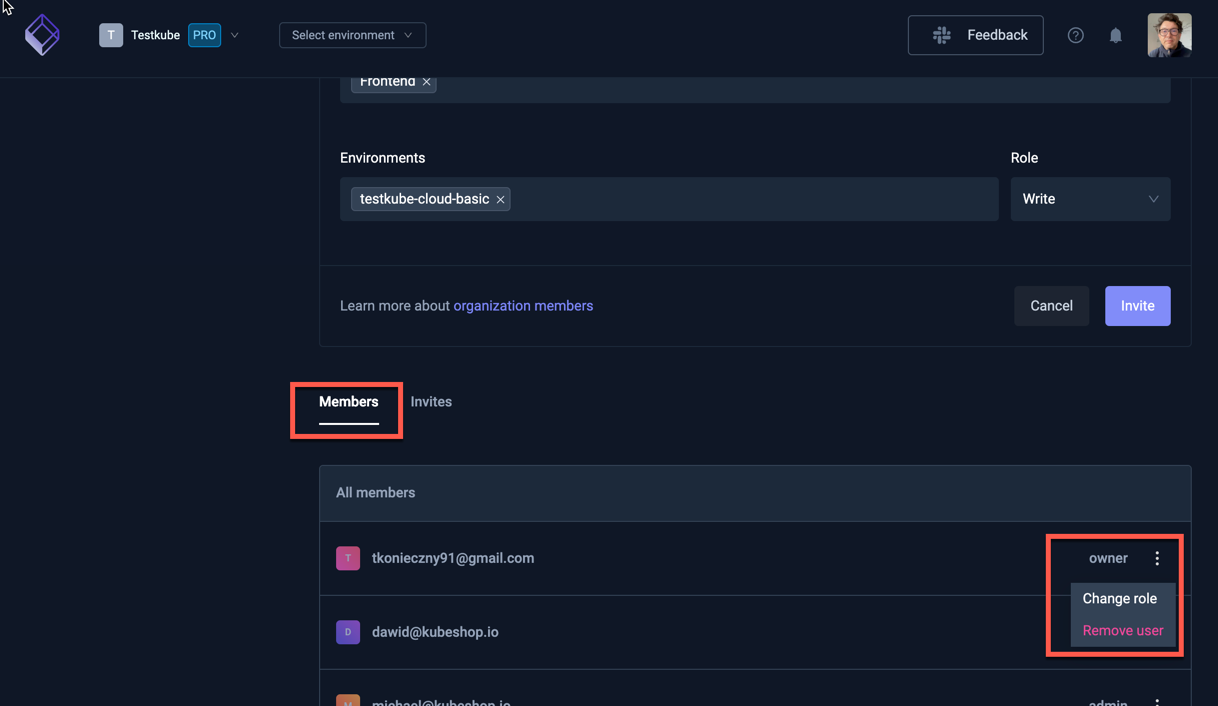
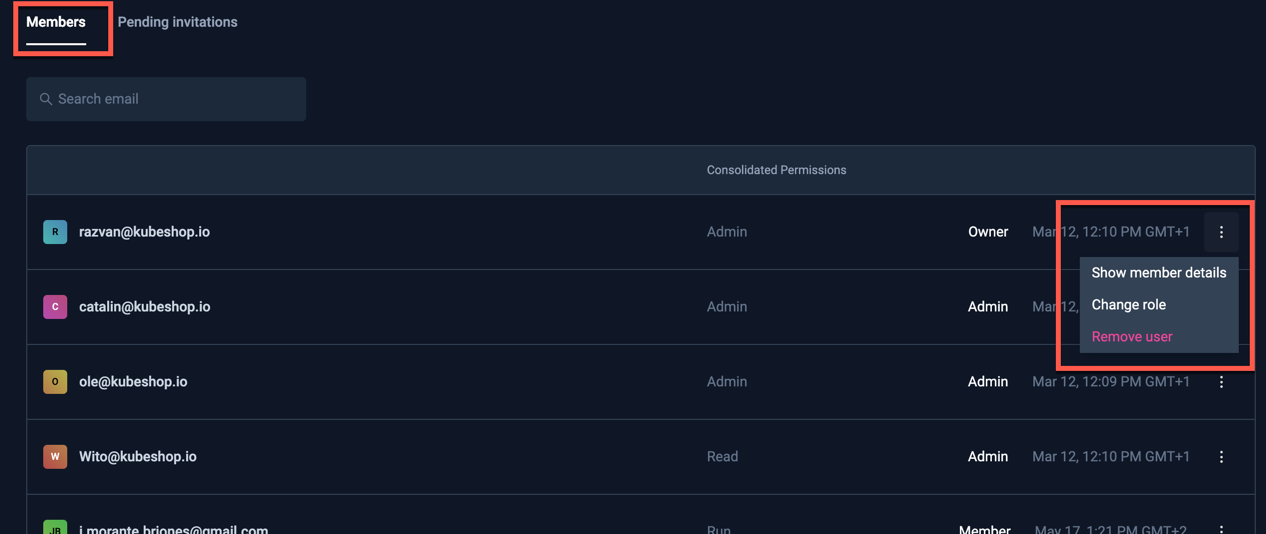
added initial members-management

diff --git a/sidebars.js b/sidebars.js
@@ -510,6 +510,11 @@ const sidebars = {
             },
             {
               type: "doc",
+              label: "Members",
+              id: "testkube-pro/articles/member-management",
+            },
+            {
+              type: "doc",
               label: "Teams",
               id: "articles/teams",
             },

diff --git a/docs/articles/install/feature-comparison.md b/docs/articles/install/feature-comparison.md
@@ -4,25 +4,26 @@ The below table shows a feature comparison between deploying the Testkube Agent 
 
 The Control Plane column applies to both On-Prem and Cloud deployments of the Control Plane.
 
-| Features                             |       Testkube Agent <br/> in standalone mode        | Testkube Agent(s) <br/>connected to Control Plane |                       Read More                        |
-|:-------------------------------------|:----------------------------------------------------:|:-------------------------------------------------:|:------------------------------------------------------:|
-| **TestWorkflows**                    | :white_check_mark: - :warning: see limitations above |                :white_check_mark:                 |            [Docs](/articles/test-workflows)            |
-| **Test Logs/Artifacts**              |   :white_check_mark: -  :warning: via CLI/API only   |                :white_check_mark:                 |          [Docs](/articles/logs-and-artifacts)          |
-| **Webhooks**                         |                  :white_check_mark:                  |                :white_check_mark:                 |               [Docs](/articles/webhooks)               |
-| **Test Triggers**                    |                  :white_check_mark:                  |                :white_check_mark:                 |         [Docs](/articles/triggering-overview)          |
-| **Test, Suites, Sources, Executors** |                  :white_check_mark:                  |                :white_check_mark:                 |  Deprecated - [Read More](/articles/legacy-features)   |
-| **Testkube CLI**                     |                  :white_check_mark:                  |                :white_check_mark:                 |                 [Docs](/articles/cli)                  |
-| **REST API**                         |    :white_check_mark: -:warning: Unauthenticated     |                :white_check_mark:                 |               [Docs](/openapi/overview)                |
-| **Dashboard**                        |                         :x:                          |                :white_check_mark:                 |      [Docs](/articles/testkube-dashboard-explore)      |
-| **Multi-environment Mgmt**           |                         :x:                          |                :white_check_mark:                 | [Docs](/testkube-pro/articles/environment-management)  |
-| **RBAC / SSO / User Mgmt**           |                         :x:                          |                :white_check_mark:                 | [Docs](/testkube-pro/articles/organization-management) |
-| **Reporting / Insights**             |                         :x:                          |                :white_check_mark:                 |            [Docs](/articles/test-insights)             |
-| **Status Pages**                     |                         :x:                          |                :white_check_mark:                 |      [Docs](/testkube-pro/articles/status-pages)       |
-| **Advanced Log/Results Debugging**   |                         :x:                          |                :white_check_mark:                 |    [Docs](/testkube-pro/articles/log-highlighting)     |
-| **Cached Test Results**              |                         :x:                          |                :white_check_mark:                 |     [Docs](/testkube-pro/articles/cached-results)      |
-| **Teams**                            |                         :x:                          |                :white_check_mark:                 |                [Docs](/articles/teams)                 |
-| **Resource Groups**                  |                         :x:                          |                :white_check_mark:                 |           [Docs](/articles/resource-groups)            |
-| **JUnit Reports**                    |                         :x:                          |                :white_check_mark:                 |        [Docs](/articles/test-workflows-reports)        |
-| **Audit Logs**                       |                         :x:                          |                :white_check_mark:                 |       [Docs](/testkube-pro/articles/audit-logs)        |
-| **Testkube Copilot**                 |                         :x:                          |                :white_check_mark:                 |                                                        |
-| **Test Discovery**                   |                         :x:                          |                :white_check_mark:                 |                                                        |
+| Features                             |       Testkube Agent <br/> in standalone mode        | Testkube Agent(s) <br/>connected to Control Plane |                                Read More                                |
+|:-------------------------------------|:----------------------------------------------------:|:-------------------------------------------------:|:-----------------------------------------------------------------------:|
+| **TestWorkflows**                    | :white_check_mark: - :warning: see limitations above |                :white_check_mark:                 |                    [Docs](/articles/test-workflows)                     |
+| **Test Logs/Artifacts**              |   :white_check_mark: -  :warning: via CLI/API only   |                :white_check_mark:                 |                  [Docs](/articles/logs-and-artifacts)                   |
+| **Webhooks**                         |                  :white_check_mark:                  |                :white_check_mark:                 |                       [Docs](/articles/webhooks)                        |
+| **Test Triggers**                    |                  :white_check_mark:                  |                :white_check_mark:                 |                  [Docs](/articles/triggering-overview)                  |
+| **Test, Suites, Sources, Executors** |                  :white_check_mark:                  |                :white_check_mark:                 |           Deprecated - [Read More](/articles/legacy-features)           |
+| **Testkube CLI**                     |                  :white_check_mark:                  |                :white_check_mark:                 |                          [Docs](/articles/cli)                          |
+| **REST API**                         |    :white_check_mark: -:warning: Unauthenticated     |                :white_check_mark:                 |                        [Docs](/openapi/overview)                        |
+| **Dashboard**                        |                         :x:                          |                :white_check_mark:                 |              [Docs](/articles/testkube-dashboard-explore)               |
+| **Multi-environment Mgmt**           |                         :x:                          |                :white_check_mark:                 |          [Docs](/testkube-pro/articles/environment-management)          |
+| **RBAC / SSO / User Mgmt**           |                         :x:                          |                :white_check_mark:                 |         [Docs](/testkube-pro/articles/organization-management)          |
+| **Resource Metrics**                 |                         :x:                          |                :white_check_mark:                 |                   [Docs](/articles/resource-metrics)                    |
+| **Reporting / Insights**             |                         :x:                          |                :white_check_mark:                 |                     [Docs](/articles/test-insights)                     |
+| **Status Pages**                     |                         :x:                          |                :white_check_mark:                 |               [Docs](/testkube-pro/articles/status-pages)               |
+| **Advanced Log/Results Debugging**   |                         :x:                          |                :white_check_mark:                 |             [Docs](/testkube-pro/articles/log-highlighting)             |
+| **Cached Test Results**              |                         :x:                          |                :white_check_mark:                 |              [Docs](/testkube-pro/articles/cached-results)              |
+| **Teams**                            |                         :x:                          |                :white_check_mark:                 |                         [Docs](/articles/teams)                         |
+| **Resource Groups**                  |                         :x:                          |                :white_check_mark:                 |                    [Docs](/articles/resource-groups)                    |
+| **JUnit Reports**                    |                         :x:                          |                :white_check_mark:                 |                [Docs](/articles/test-workflows-reports)                 |
+| **Audit Logs**                       |                         :x:                          |                :white_check_mark:                 |                [Docs](/testkube-pro/articles/audit-logs)                |
+| **Testkube Copilot**                 |                         :x:                          |                :white_check_mark:                 |                   [Docs](/articles/copilot-overview)                    |
+| **Test Discovery**                   |                         :x:                          |                :white_check_mark:                 | [Docs](/articles/test-workflows-create-wizard#automatic-test-discovery) |

diff --git a/docs/testkube-pro/articles/member-management.md b/docs/testkube-pro/articles/member-management.md
@@ -1,0 +1,87 @@
+# Member Management
+
+Manage your organization members from the [Members] option in the Organization management panel:
+
+![Organisation Member Management](images/org-members.png)
+
+## Member Types
+
+Testkube allows you to license for two type types of members; **full** and **read-only**. A members' type 
+is implicit and based on if that member has been given write-access to any resource/environment in Testkube: 
+- A member that has been given write-access automatically counts as a full member.
+- A member that does not have any write-access counts as read-only.
+
+You can see the number of used/available seats of each type in the members page.
+
+:::info
+Please read [Resource Access Management](/articles/resource-access-management) to get an overview of how Testkube
+allows you to manage and apply Resource Access controls for Organization Members.
+:::
+
+### Constraints 
+
+This model imposes some constraints related to member types and permissions:
+
+- It is not possible to give a read-only member write-access to any resource or environment if no 
+  full-member seats are available.
+- It is not possible for a user to join an organisation if all seats are occupied. For on-prem/SSO-enabled
+  deployments, this could result in users not being able to sign in at all.
+- Members who are read-only will count to the full-member limit if there aren't enough read-only seats available.
+
+### Member licensing with the Testkube Cloud Control Plane
+
+When using the Testkube Cloud Control Plane instead of hosting the Control Plane on-prem, members can be
+licensed either within a fixed limit, or based on active member count at the end of each month.
+
+- **Fixed** members licensing allocates a fixed number of full and read-only members to your organization, for which
+  you will be billed in your billing cycle.
+- **Pay-as-you-go** member licensing counts the number of active (logged in) members of each type at the end of each 
+  billing cycle and bills you for that number of members. Pay-as-you-go licensing is indicated by an infinity-sign in the 
+  number of members count:
+
+![Pay-as-you-go Member Count](images/infinite-org-members.png)
+
+## Inviting Members
+
+Invite new members from the Members page by specifying: 
+- Emails - a comma-separated list of emails to invite.
+- Role - there are 4 roles for organization members:
+  - `Owner` - Has access to all environments and organization settings, also can access billing details.
+  - `Admin` - Has access to all environments and organization settings.
+  - `Member` - Access to Resource Groups and Envvironmnents is defined by the roles assigned to given member. 
+     Member by default doesn't have any access, you need to [explicitly set it in the given environment](environment-management.md). 
+  - `Biller` - Has access to billing details only.
+- Teams - which Teams the invited members should belong to.
+- Environments - which Environments the invited members should be added to, with their corresponding Environment Role
+
+Once all specified, select the Invite button in the bottom right.
+
+![Organization Member Invite](../../img/organization-members.png)
+
+:::tip
+For Testkube On-Prem deployments you can configure default organizations, environments and roles for users - see 
+[Bootstrap User Mapping](/articles/install/advanced-install#bootstrap-user-mapping).
+:::
+
+## Manage existing Members
+
+Manage existing members in the list of members at the bottom of the tab. Use the menu to the right for 
+each member to delete them or change their role.
+
+![Organization Members](../../img/org-members-list.png)
+
+Use the menu to the right to Update or Remove a member and view their details.
+
+### Understanding Members' Permissions
+
+Use the "Show Member Details" option shows the breakdown for the Members' Consolidated Permissions shown in the table:
+
+![Member Permissions](images/member-permissions.png)
+
+## Manage pending Invites
+
+Manage pending member invites in the lists at the bottom of the tab. Use the menu to the right for
+each invite to update, revoke or resent the invite.
+
+![Organization Invites](../../img/organization-invites.png)
+

diff --git a/docs/testkube-pro/articles/organization-management.md b/docs/testkube-pro/articles/organization-management.md
@@ -6,8 +6,6 @@ To manage your organization settings click "Organization Management" from organi
 
 (You can also create new organizations from this menu).
 
-The following tabs are available for managing an Organization.
-
 ## Environments
 
 In the environments section, you can see the list of your existing environments.
@@ -28,47 +26,9 @@ Read more about [Environment Management](../articles/environment-management.md).
 
 ## Members
 
-Invite and manage your organization members here. 
+The members section allows you to invite and manage your organizations' members and their roles - [Read More](member-management) 
 
-:::info
-Please read [Resource Access Management](/articles/resource-access-management) to get an overview of how Testkube
-allows you to manage and apply Resource Access controls for Organization Members.
-:::
-
-### Inviting Members
-
-Invite new members by specifying 
-- Emails - a comma-separated list of emails to invite.
-- Role - there are 4 roles for organization members:
-  - `Owner` - Has access to all environments and organization settings, also can access billing details.
-  - `Admin` - Has access to all environments and organization settings.
-  - `Member` - Has limited access to environments, access is defined by the roles assigned to given member. Member by default doesn't have any access, you need to [explicitly set it in the given environment](environment-management.md).
-  - `Biller` - Has access to billing details only.
-- Teams - which Teams the invited members should belong to.
-- Environments - which Environments the invited members should be added to, with their corresponding Environment Role
-
-Once all specified, select the Invite button in the bottom right.
-
-![Organization Member Invite](../../img/organization-members.png)
-
-:::tip
-For Testkube On-Prem deployments you can configure default organizations, environments and roles for users - see 
-[Bootstrap User Mapping](/articles/install/advanced-install#bootstrap-user-mapping).
-:::
-
-### Manage existing Members
-
-Manage existing members in the list of members at the bottom of the tab. Use the menu to the right for 
-each member to delete them or change their role.
-
-![Organization Members](../../img/org-members-list.png)
-
-### Manage pending Invites
-
-Manage pending member invites in the lists at the bottom of the tab. Use the menu to the right for
-each invite to update, revoke or resent the invite.
-
-![Organization Invites](../../img/organization-invites.png)
+![Organisation Member Management](images/org-members.png)
 
 ## Teams
 
